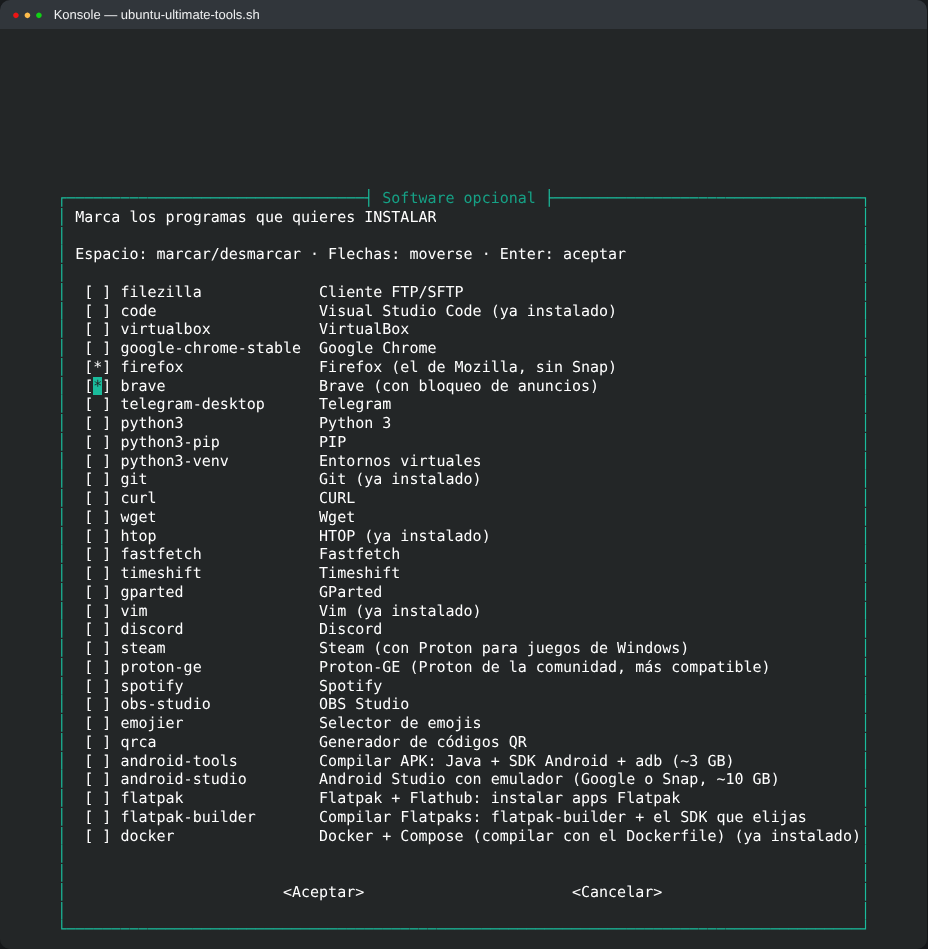
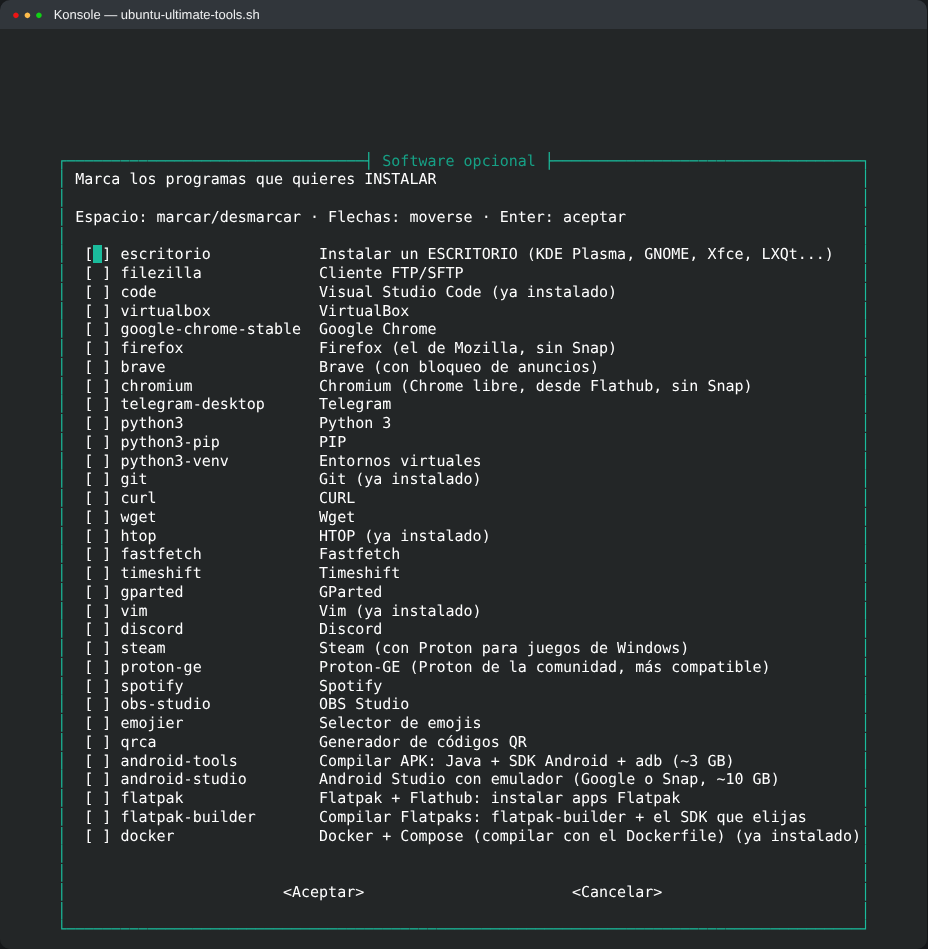
README, capturas y créditos: instalar un escritorio y Ubuntu Server
- Capturas nuevas: menú de Ubuntu Server e instalador de escritorio
- Capturas actualizadas: software opcional (escritorio, Chromium) y deshacer (quitar escritorio)
- CREDITOS.md: escritorios, gestores de sesión y Netplan
- El instalador explica sus protecciones antes de elegir

Changed region(s): [[0.0625, 0.1528, 0.875, 0.4278]]

diff --git a/CREDITOS.md b/CREDITOS.md
@@ -43,6 +43,23 @@ reconocimiento a sus autores; la licencia que vale siempre es la que publica cad
 | [pacman-mirrors](https://gitlab.manjaro.org/applications/pacman-mirrors) y [mhwd](https://gitlab.manjaro.org/applications/mhwd) | GPL-3.0 | Sistema (Manjaro): espejos, drivers y kernels |
 | [nvidia-detect](https://packages.debian.org/nvidia-detect) | Proyecto Debian | Sistema (Debian): elige el driver de NVIDIA correcto |
 
+## 🖥 Escritorios (opción 6 → Instalar un escritorio)
+
+El script solo instala los metapaquetes oficiales de Ubuntu; cada escritorio y sus apps tienen su licencia.
+
+| Proyecto | Licencia | Uso |
+|---|---|---|
+| [KDE Plasma](https://kde.org/plasma-desktop/) (Kubuntu) | GPL-2.0-or-later / LGPL-2.1-or-later | Instala |
+| [GNOME](https://www.gnome.org/) (Ubuntu) | GPL-2.0-or-later / LGPL-2.1-or-later | Instala |
+| [Xfce](https://xfce.org/) (Xubuntu) | GPL-2.0-or-later / LGPL-2.0-or-later | Instala |
+| [LXQt](https://lxqt-project.org/) (Lubuntu) | LGPL-2.1-or-later / GPL-2.0-or-later | Instala |
+| [MATE](https://mate-desktop.org/) (Ubuntu MATE) | GPL-2.0-or-later / LGPL-2.0-or-later | Instala |
+| [Budgie](https://buddiesofbudgie.org/) (Ubuntu Budgie) | GPL-2.0 / LGPL-2.1 | Instala |
+| [Cinnamon](https://github.com/linuxmint/cinnamon) (Ubuntu Cinnamon) | GPL-2.0-or-later | Instala |
+| [SDDM](https://github.com/sddm/sddm), [GDM](https://gitlab.gnome.org/GNOME/gdm), [LightDM](https://github.com/canonical/lightdm) | GPL-2.0-or-later / GPL-3.0 | Instala: pantalla de inicio de sesión |
+| [Netplan](https://netplan.io/) | GPL-3.0 | Sistema: pasar la red a NetworkManager (`netplan try`) |
+| [tasksel](https://salsa.debian.org/debian/tasksel) | GPL-2.0-or-later | Inspiración: el script no lo usa, hace lo mismo con protecciones |
+
 ## 🐧 Kernels
 
 | Proyecto | Licencia | Uso |

diff --git a/README.md b/README.md
@@ -47,7 +47,7 @@ sin importar el sabor. Al iniciar **detecta qué sabor y qué escritorio tienes*
 | **Ubuntu Studio** | KDE Plasma | Igual que Kubuntu, salvo Rolling Release |
 | **Edubuntu** | GNOME | Igual que Ubuntu |
 | **Ubuntu Kylin** | UKUI | Sin lista propia de apps: solo las comunes |
-| **Ubuntu Server** | sin escritorio | Kernel, GRUB, red, RAM, Snap y actualizaciones |
+| **Ubuntu Server** | sin escritorio | Kernel, GRUB, red, RAM, Snap y actualizaciones. **Opción 6: instalar un escritorio** |
 
 El sabor se detecta por su meta-paquete (`kubuntu-desktop`, `xubuntu-desktop`...). Si lo quitaste con la
 opción 11, se reconoce por su escritorio. Las opciones que no aplican a tu escritorio lo explican y no hacen nada.
@@ -486,6 +486,8 @@ Lo que ya tienes instalado aparece marcado "(ya instalado)".
 
 ### 🖥 Instalar un escritorio (Ubuntu Server o agregar otro)
 
+![Instalar un escritorio](screenshots/24-instalar-escritorio.png)
+
 Primera opción de la lista de software opcional. Instala el escritorio que elijas encima de Ubuntu Server
 (o al lado del que ya tengas), como hace `tasksel`, pero con protecciones:
 
@@ -594,7 +596,8 @@ Si algo no te convence, la opción 9 deshace optimizaciones y quita programas, y
 ## 📸 Capturas
 
 En la carpeta [**screenshots**](screenshots/) están las capturas de todos los menús: eliminar apps,
-GPU, kernel, revertir, arranque y GRUB, red, energía, perfiles, deshacer e información del sistema.
+GPU, kernel, revertir, arranque y GRUB, red, energía, perfiles, deshacer, información del sistema,
+Ubuntu Server e instalar un escritorio.
 
 ---
 

diff --git a/screenshots/README.md b/screenshots/README.md
@@ -43,6 +43,18 @@ sabor y el escritorio detectados, y las listas muestran solo lo que está instal
 
 ---
 
+## Ubuntu Server: menú principal (opción 6 instala un escritorio)
+
+![Ubuntu Server: menú principal](23-ubuntu-server-menu.png)
+
+---
+
+## Instalar un escritorio (opción 6 → Escritorio)
+
+![Instalar un escritorio: KDE Plasma, GNOME, Xfce, LXQt, MATE, Budgie o Cinnamon](24-instalar-escritorio.png)
+
+---
+
 ## Deshacer optimizaciones (opción 9)
 
 ![Deshacer optimizaciones (opción 9)](13-deshacer.png)
